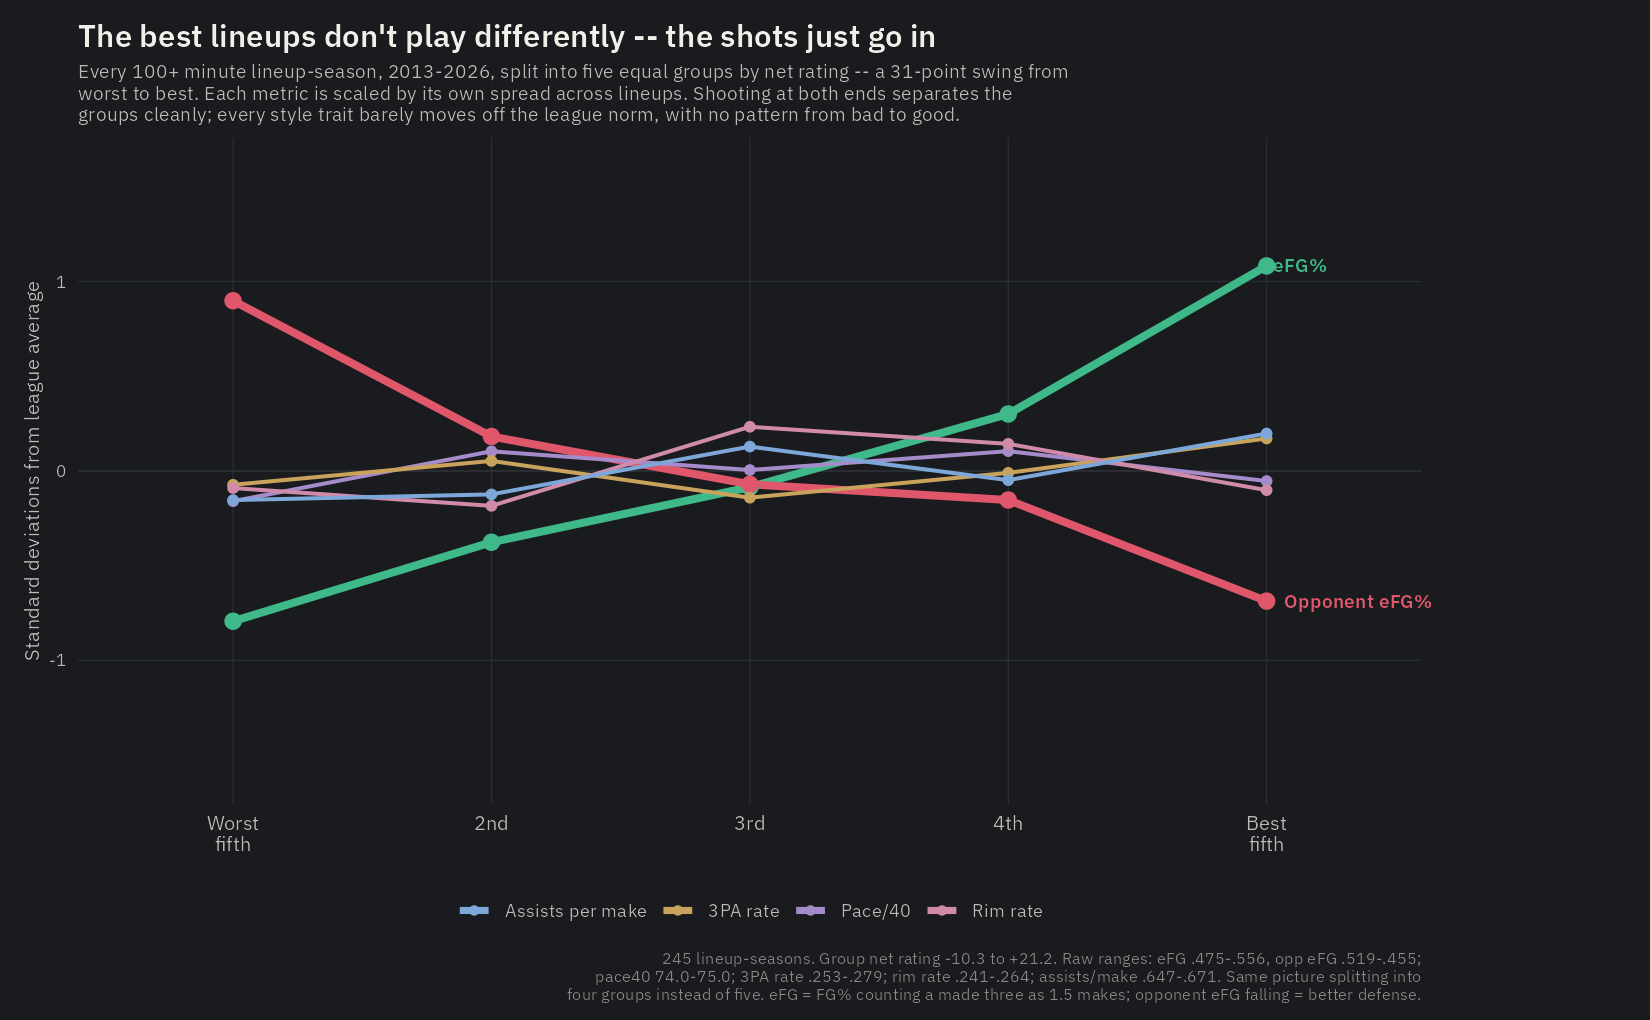
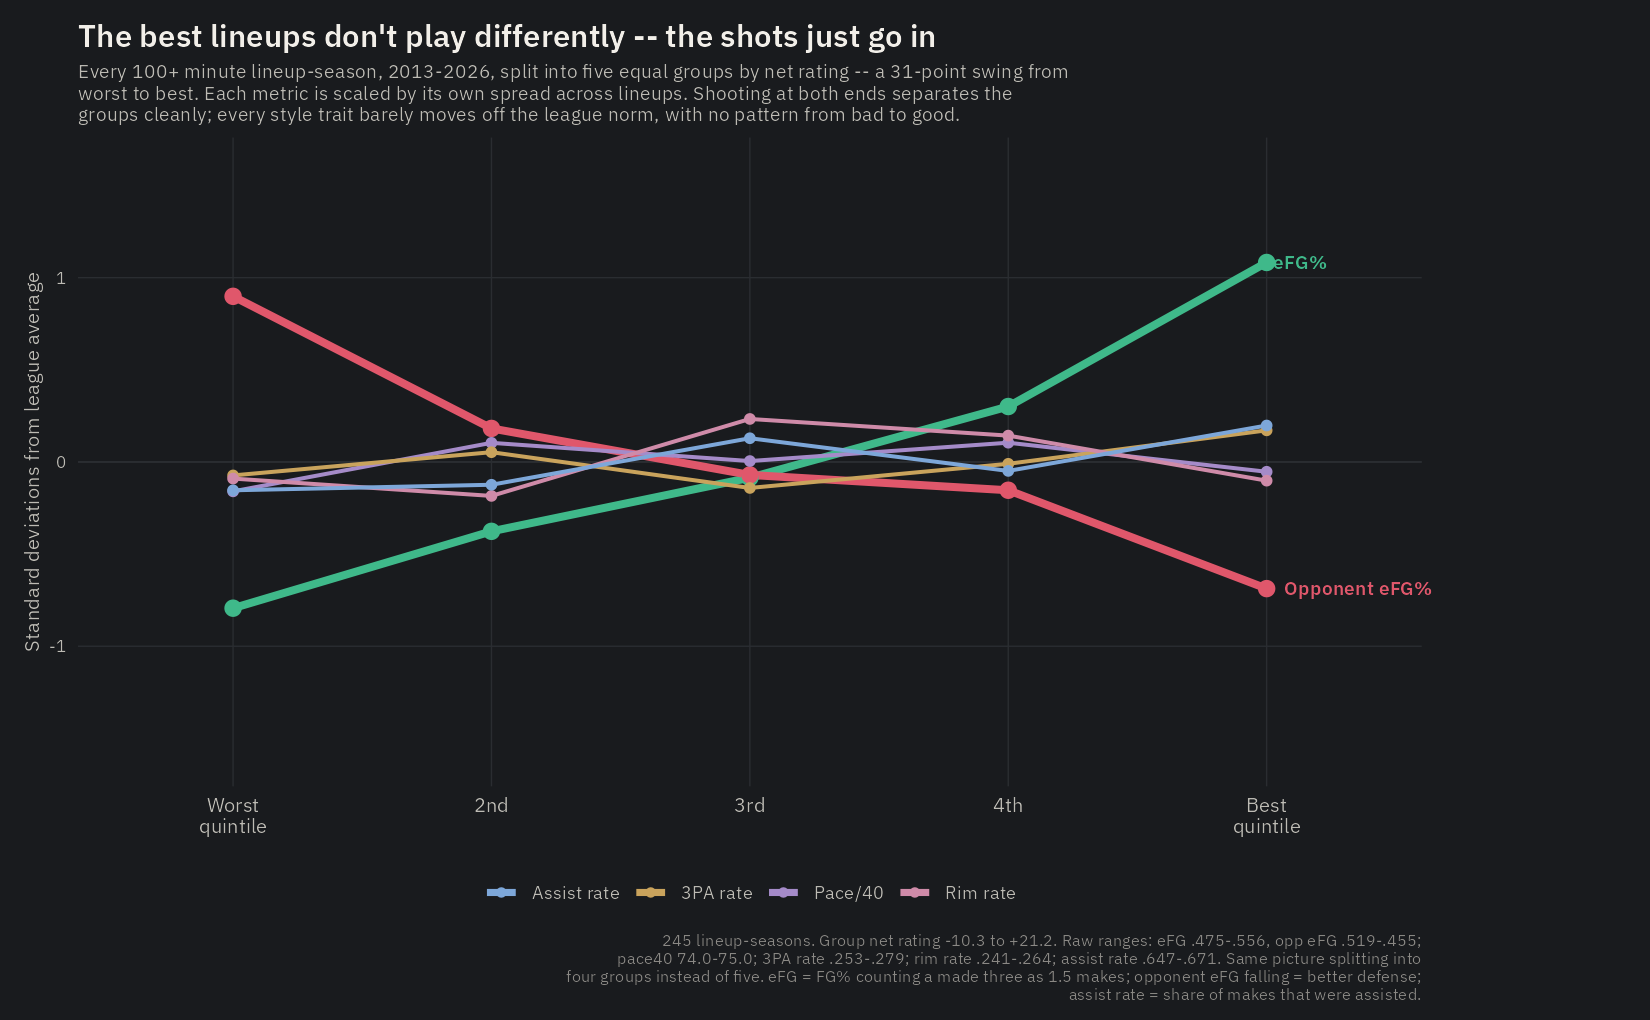
Assist rate and quintile labels; Net rating headers

diff --git a/src/content/projects/wnba-best-lineups.md b/src/content/projects/wnba-best-lineups.md
@@ -31,16 +31,16 @@ There is no wins column, so team net rating is derived the same way as elsewhere
 
 Every 100-plus-minute lineup-season from 2013 through 2026, sorted into five equal groups by net rating:
 
-| Group | eFG% | Opp eFG% | Pace/40 | 3PA rate | Rim rate | Assists per make | Net |
+| Group | eFG% | Opp eFG% | Pace/40 | 3PA rate | Rim rate | Assist rate | Net rating |
 | --- | --- | --- | --- | --- | --- | --- | --- |
-| Worst fifth | .475 | .519 | 74.0 | .259 | .246 | .647 | -10.3 |
+| Worst quintile | .475 | .519 | 74.0 | .259 | .246 | .647 | -10.3 |
 | 2nd | .493 | .490 | 75.0 | .269 | .241 | .649 | +0.3 |
 | 3rd | .505 | .480 | 74.6 | .253 | .264 | .666 | +6.6 |
 | 4th | .522 | .477 | 75.0 | .264 | .259 | .654 | +12.1 |
-| Best fifth | .556 | .455 | 74.4 | .279 | .246 | .671 | +21.2 |
+| Best quintile | .556 | .455 | 74.4 | .279 | .246 | .671 | +21.2 |
 
 <figure>
-  <img src="/images/wnba-lineups/style-vs-net-rating.png" alt="Line chart showing effective field goal percentage rising and opponent effective field goal percentage falling from the worst lineup group to the best, while pace, three-point rate, rim rate, and assists per make stay flat near league average" />
+  <img src="/images/wnba-lineups/style-vs-net-rating.png" alt="Line chart showing effective field goal percentage rising and opponent effective field goal percentage falling from the worst lineup group to the best, while pace, three-point rate, rim rate, and assist rate stay flat near league average" />
   <figcaption>245 lineup-seasons, split into five equal groups by net rating, a 31-point swing from worst to best. Each metric is scaled by its own spread across lineups. Shooting separates the groups at both ends; the style traits barely move, with no pattern from bad to good.</figcaption>
 </figure>
 
@@ -50,7 +50,7 @@ That claim can be checked directly rather than inferred from the ratings. Rebuil
 
 Continuity is a different matter, and it can be isolated in a way most lineup questions cannot. Three separate 2024 Indiana lineups cleared 150 minutes with the identical core of Kelsey Mitchell, NaLyssa Smith, Aliyah Boston and Caitlin Clark. Only the fifth player changed.
 
-| Fifth player | Minutes | Net |
+| Fifth player | Minutes | Net rating |
 | --- | --- | --- |
 | Lexie Hull | 195 | +6.3 |
 | Katie Lou Samuelson | 193 | -6.2 |
@@ -60,7 +60,7 @@ Nearly equal minutes for all three and a 21-point spread in outcome. This reads 
 
 A similar swap shows up in 2026 Los Angeles. Nneka Ogwumike, Erica Wheeler and Dearica Hamby appear in all three of the team's qualifying lineups, and the fourth and fifth spots rotate among Ariel Atkins, Rae Burrell and Kelsey Plum.
 
-| LA lineup | Minutes | Net |
+| LA lineup | Minutes | Net rating |
 | --- | --- | --- |
 | Ogwumike, Wheeler, Hamby, Atkins + Burrell | 233 | -6.2 |
 | Ogwumike, Wheeler, Hamby, Atkins + Plum | 82 | +7.0 |

diff --git a/CLAUDE.md b/CLAUDE.md
@@ -42,7 +42,7 @@ The user's charts are made outside this repo — **R/ggplot2, in `C:\Users\jbrou
 | Chart background | `#191b1e` (= `--bg-raised`, reads as a panel against the page) |
 | Categorical (several same-status series, no judgment) | `WNBA_CAT` in `palette.R`: `#7da7d9` / `#c9a35c` / `#a58bc9` / `#cf8ba9` — muted, sit below bone in emphasis; nothing near teal-green so they can share a panel with a POS-colored line |
 
-Rules that go with it: chart type face is IBM Plex Sans, matching the site. **Never a blue/orange pair for categories** — it's the generic default pairing and reads as untouched tooling. Green/red keeps the user's sports-analytics convention but the hues are shifted (green leans teal, red leans rose) so they differ in lightness too, and outcome always carries a second channel (filled vs hollow) so it survives colorblindness. Don't color-encode a variable that position or length already encodes. **Player labels use full first + last names** ("Diana Taurasi", never "D. Taurasi") — they're people, not data points; the lineup CSVs store abbreviations, so expand via the advanced-seasons CSV (see `phase_charts.R`). Chart text stays plain where it can: "split into five equal groups," not "quintiles." An SD-scaled axis is fine (the user prefers it to wordier paraphrases) but say what the scaling does in the subtitle.
+Rules that go with it: chart type face is IBM Plex Sans, matching the site. **Never a blue/orange pair for categories** — it's the generic default pairing and reads as untouched tooling. Green/red keeps the user's sports-analytics convention but the hues are shifted (green leans teal, red leans rose) so they differ in lightness too, and outcome always carries a second channel (filled vs hollow) so it survives colorblindness. Don't color-encode a variable that position or length already encodes. **Player labels use full first + last names** ("Diana Taurasi", never "D. Taurasi") — they're people, not data points; the lineup CSVs store abbreviations, so expand via the advanced-seasons CSV (see `phase_charts.R`). Chart labels may use "quintile" (the user found "Worst fifth" next to "2nd/3rd/4th" more confusing than the term) as long as the subtitle explains the split in plain words ("split into five equal groups by net rating"). An SD-scaled axis is fine (the user prefers it to wordier paraphrases) but say what the scaling does in the subtitle.
 
 Chart-consistency pass: done for everything on the site (2026-08-02 — the last fix was the lineup style-vs-net chart, whose right-edge labels blurred into the gray line cluster; labels now sit brighter than the lines with leader ticks, per `phase_charts.R`). The clutch dumbbell lives only in the R project, not on the site.
 
